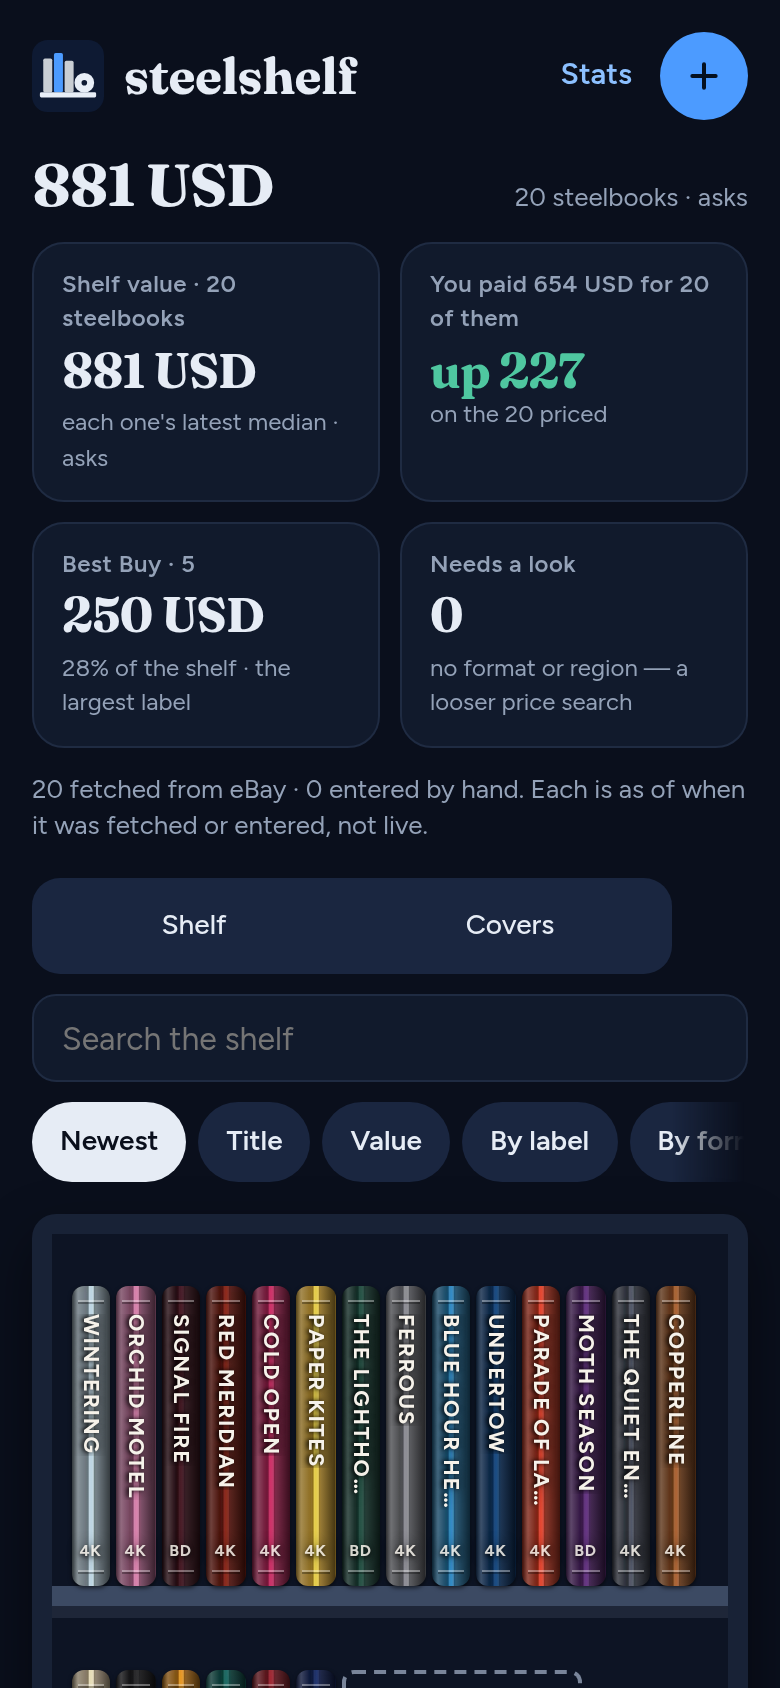
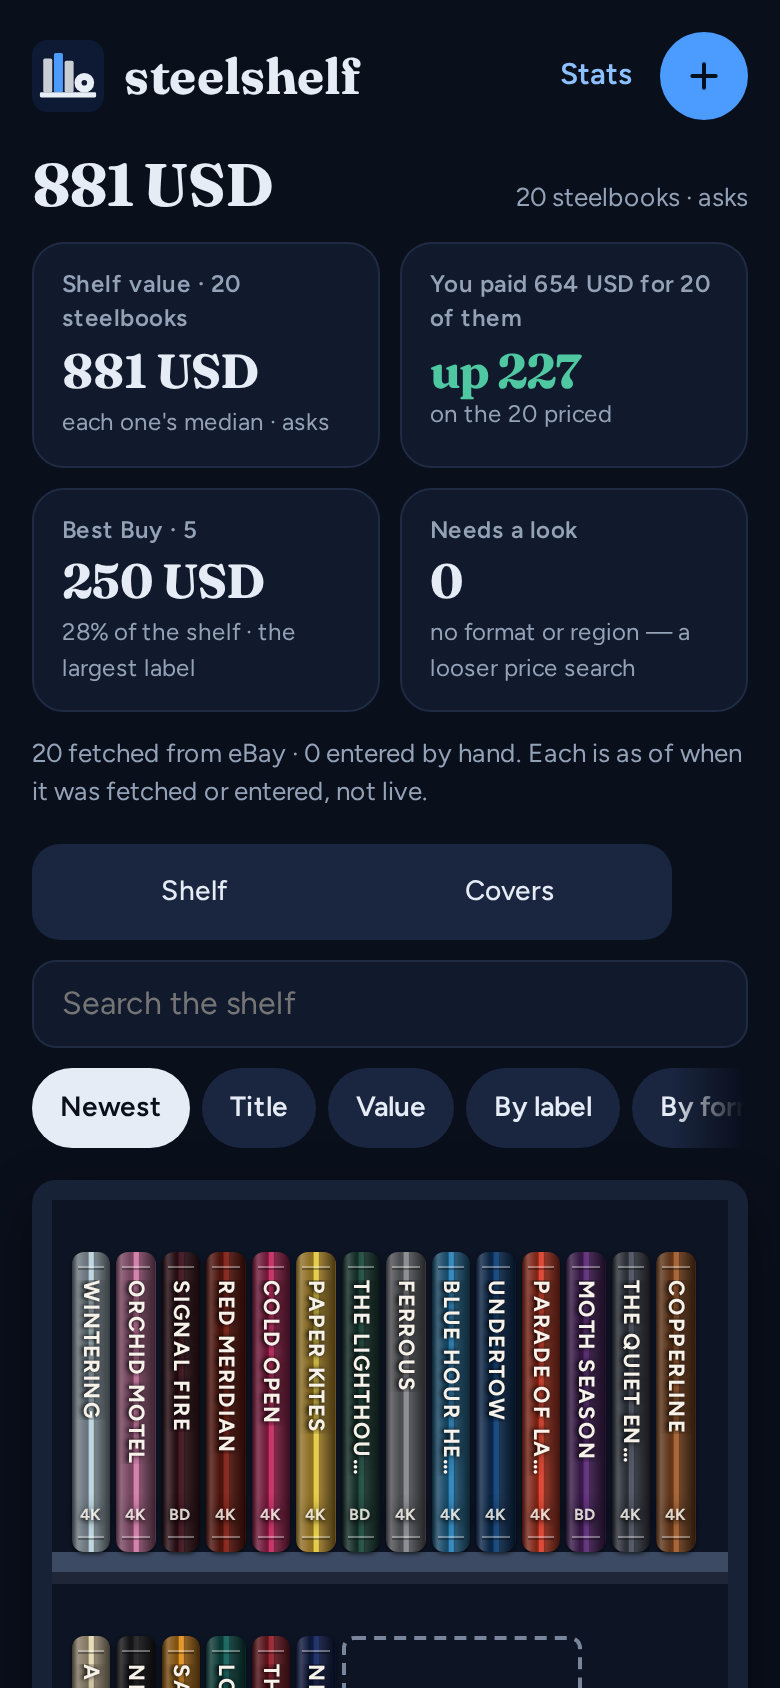
chore: README screenshots show the value chart, fill their frames, and sit by what they show
The shelf shot cut the value-over-time chart off at its bottom edge and
left half the frame empty; stats was a third blank; item and stats were
1280px pages shown at 405px; the identify example sat four bullets below
its feature, with its caveat above the fold.

- shelf.png: sorted by format, so three labelled planks fill the frame
  and the chart is whole. phone.png retaken to match.
- item.png: a narrow capture down through the History card. stats.png:
  960px wide, cropped to its cards, and now with the sold-and-asks card
  the old shot predates.
- Row widths are set so each pair renders at one height (592+218, 257+553).
- identify.png trimmed above Region and Condition, and moved under the
  "Identified for you" bullet with its canned-answer note as a caption.
- The section links move above the screenshots.

diff --git a/README.md b/README.md
@@ -10,23 +10,21 @@ at a case, let Claude name the edition and the retailer exclusive, and watch
 the shelf's value from eBay listings over time. FastAPI + Jinja + HTMX,
 SQLite, one Docker container, no CDN.
 
+[Features](#features) · [Quick start](#quick-start) · [Try the demo](#try-the-demo) ·
+[Keys](#keys) · [Privacy](#privacy) · [Limitations](#limitations) ·
+[Documentation](#documentation) · [Development](#development)
+
 <p>
-  <img alt="The shelf on a desktop: twenty steelbook spines on a plank, value tiles above, the most valuable beside" src="docs/img/shelf.png" width="620">
-  <img alt="The shelf on a phone" src="docs/img/phone.png" width="190">
+  <img alt="The shelf on a desktop, sorted by format: twenty steelbook spines on three labelled planks, value tiles above, the most valuable and the shelf's value over time beside" src="docs/img/shelf.png" width="592">
+  <img alt="The shelf on a phone" src="docs/img/phone.png" width="218">
 </p>
 <p>
-  <img alt="An item page: the case, its photos, what it is worth against what was paid" src="docs/img/item.png" width="405">
-  <img alt="The stats page: value by retailer, how sure the prices are, format, region and condition" src="docs/img/stats.png" width="405">
+  <img alt="An item page: the case, its photos, what it is worth against what was paid, and its price history" src="docs/img/item.png" width="257">
+  <img alt="The stats page: value by retailer, sold prices against asks, how sure the prices are, format, region and condition" src="docs/img/stats.png" width="553">
 </p>
 
 Every screenshot is the demo shelf (`scripts/demo.py`): invented titles and
 drawn cases, since real steelbook art belongs to the studios and artists.
-The identify example below is a canned answer in the shape Claude returns,
-not a live call.
-
-[Features](#features) · [Quick start](#quick-start) · [Try the demo](#try-the-demo) ·
-[Keys](#keys) · [Privacy](#privacy) · [Limitations](#limitations) ·
-[Documentation](#documentation) · [Development](#development)
 
 ## Features
 
@@ -36,7 +34,9 @@ not a live call.
 - 🔎 **Identified for you.** The barcode is decoded locally when there is one;
   Claude reads the rest — title, format, edition, retailer exclusive or
   boutique label, region, condition — and lists what it was unsure of. You
-  check the form and save.
+  check the form and save.<br>
+  <img alt="Identify: a drawn front photo of an invented case beside the add form as identify fills it, with two doubts listed above it" src="docs/img/identify.png" width="640"><br>
+  <sub>A canned answer in the shape Claude returns, not a live call.</sub>
 - 💲 **Valued from eBay.** Current asks by default, matched to the item's own
   edition, with a range and a confidence cue. Sold prices can be typed in, or
   looked up through an optional sold-comps service.
@@ -48,8 +48,6 @@ not a live call.
   across every field.
 - 📊 **Stats.** Value by retailer or label, how sure each price is, and counts
   by format, region and condition.
-
-<p><img alt="Identify: a drawn front photo of an invented case beside the add form as identify fills it, with two doubts listed above it" src="docs/img/identify.png" width="720"></p>
 
 ## Quick start
 
